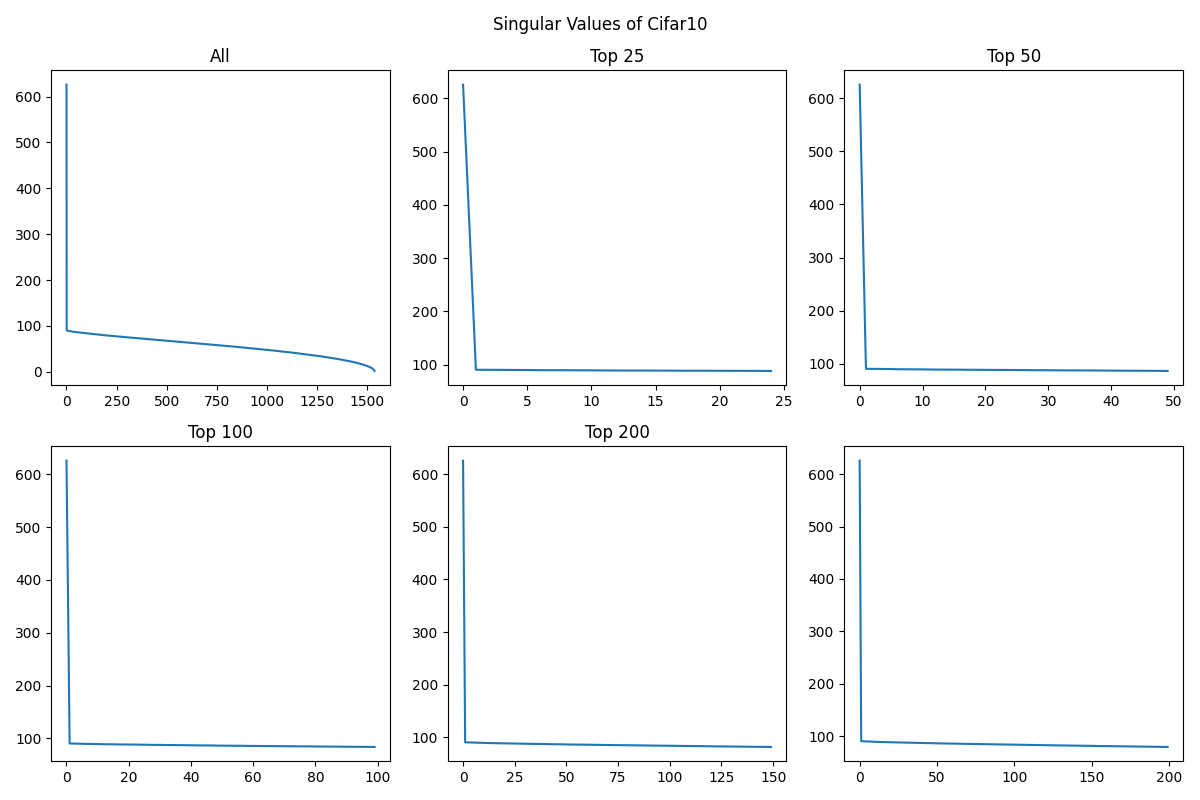
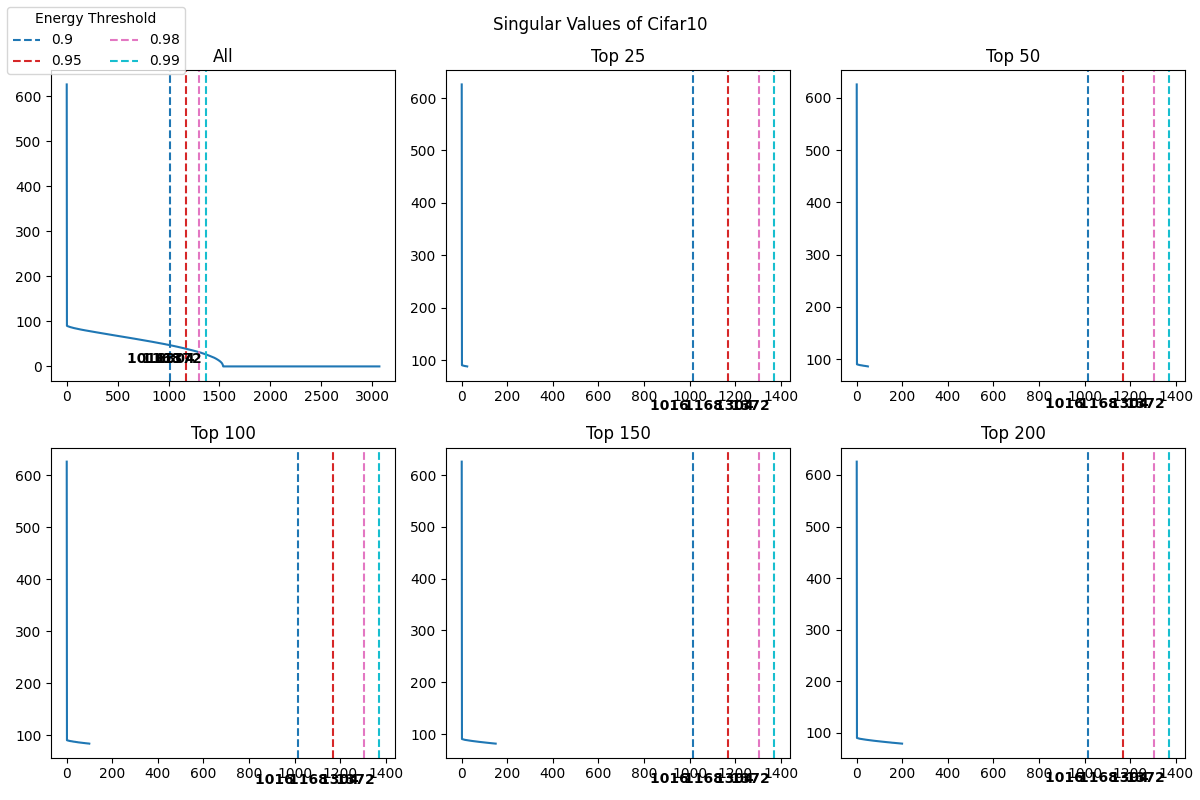
Fixed spectral plots

diff --git a/Experiments/dimensionality_reduction_metrics/compute_spectral_plot.py b/Experiments/dimensionality_reduction_metrics/compute_spectral_plot.py
@@ -5,6 +5,7 @@ import os
 import sys
 sys.path.append('../..')
 import matplotlib.pyplot as plt
+import matplotlib.cm as cm
 import argparse
 from tqdm import tqdm 
 from DiffRed.utils import calculate_singular_values
@@ -16,13 +17,46 @@ def parse_arguments():
     parser.add_argument('--datasets','-d', nargs='+', help='Datasets whose plots are to be computed', default='all')
     parser.add_argument('--data_dir', help='Directory where datasets are stored', default='./datasets')
     parser.add_argument('--sample_percentage', help='Percentage of data to be sampled for computation')
-    parser.add_argument('--singular_dir', help='Directory to save singular values', default='./singular_values')
+    parser.add_argument('--energy_threshold', '-e', help='List of energy thresholds to annotate seperated by space', default='0.90 0.95 0.98 0.99')
+    parser.add_argument('--singular_dir', help='Directory to save singular values/Directory where singular values are saved', default='./singular_values')
+
     args=parser.parse_args()
     return args
 
-def plot_data(dataset:str, DATA_DIR:str, SAVE_DIR:str, SING_DIR:str):
+def opt_k1(sigma:np.ndarray, energy_threshold:int)-> int:
+    sum_sq=np.sum(sigma**2)
+    for k1 in range(len(sigma)):
+        energy=np.sum(sigma[:k1]**2)/sum_sq
+        if energy>=energy_threshold:
+            return k1
+    return len(sigma)
+
+# def opt_dimensions(sigma:np.ndarray, target_dimension: int, energy_threshold=0.98) -> tuple[int, int]:
+#     # sigma=calculate_singular_values(A)
+#     sum_sq=np.sum(sigma**2)
+#     for k1 in range(len(sigma)):
+#         energy=np.sum(sigma[:k1]**2)/sum_sq
+#         if energy>=energy_threshold:
+#             if not target_dimension-k1<0:
+#                 return k1, target_dimension-k1
+#             else:
+#                 return k1,0
+
+def plot_data(dataset:str, DATA_DIR:str, SAVE_DIR:str, SING_DIR:str,energy_threshold: list[float]):
     X=np.load(os.path.join(DATA_DIR,dataset, 'X.npy'),allow_pickle=True)
-    sigma=calculate_singular_values(X)
+    
+    # print(os.path.exists(os.path.join(SING_DIR,f'{dataset}.npy')))
+
+    if not os.path.exists(os.path.join(SING_DIR,f'{dataset}.npy')):
+        sigma=calculate_singular_values(X)
+    else:
+        sigma=np.load(os.path.join(SING_DIR,f'{dataset}.npy'))
+
+    k1_values=[opt_k1(sigma, x) for x in energy_threshold]
+    # k1_values=[opt_dimensions(sigma,40,x)[0] for x in energy_threshold]
+
+    # print(f'k1 values for {dataset}: ',k1_values)
+
     fig, axes = plt.subplots(2, 3, figsize=(12, 8))
 
     # Plot sigma
@@ -46,18 +80,36 @@ def plot_data(dataset:str, DATA_DIR:str, SAVE_DIR:str, SING_DIR:str):
     axes[1, 1].set_title('Top 150')
 
     axes[1,2].plot(sigma[:200])
-    axes[1,1].set_title('Top 200')
+    axes[1,2].set_title('Top 200')
+
+    colors = cm.get_cmap('tab10', len(k1_values))
+
+    for i,x in enumerate(k1_values):
+        for ax in axes.flatten():
+            ax.axvline(x=x,color=colors(i), linestyle='--')
+
+            ax.text(x,0,f'{x} ',color='black',ha='right', va='bottom', weight='bold')
+    
+    plt.subplots_adjust(top=0.9)
 
     plt.suptitle(f'Singular Values of {dataset}')
 
     # sigmadjust spacing between subplots
     fig.tight_layout()
+    legend_title='Energy Threshold'
+    legend_labels=[f'{e}' for e in energy_threshold ]
+    plt.figlegend(handles=[plt.Line2D([0], [0], color=colors(i), linestyle='--') for i in range(len(k1_values))],
+              labels=legend_labels, title=legend_title, loc='upper left', ncol=2)
     plt.savefig(os.path.join(SAVE_DIR, f'{dataset}.png'))
-    np.save(os.path.join(SING_DIR,f'{dataset}.npy'),sigma)
+
+    if not os.path.exists(os.path.join(SING_DIR,f'{dataset}.npy')):
+        np.save(os.path.join(SING_DIR,f'{dataset}.npy'),sigma)
 
 
 def main():
     args=parse_arguments()
+
+    energy_threshold=[float(x) for x in args.energy_threshold.split()]
 
     if args.datasets[0].lower()=='all':
         datasets=os.listdir(args.data_dir)
@@ -66,7 +118,7 @@ def main():
     pbar=tqdm(datasets)
     for dataset in pbar:
         pbar.set_description(f'Plotting {dataset}...')
-        plot_data(dataset, args.data_dir, args.save_dir,args.singular_dir)
+        plot_data(dataset, args.data_dir, args.save_dir,args.singular_dir,energy_threshold)
 
 if __name__=="__main__":
     main()

diff --git a/DiffRed/utils.py b/DiffRed/utils.py
@@ -67,9 +67,9 @@ def calculate_singular_values(A:np.ndarray)->np.ndarray:
     else:
         aaT=A.T@A
     eigv=LA.eigvalsh(aaT)
-    # for i in range(eigv.shape[0]):
-    #     if eigv[i]<0.0:
-    #         eigv[i]=0
+    for i in range(eigv.shape[0]):
+        if eigv[i]<0.0:
+            eigv[i]=0
     sigma=np.sqrt(eigv[::-1])
     return sigma
 
